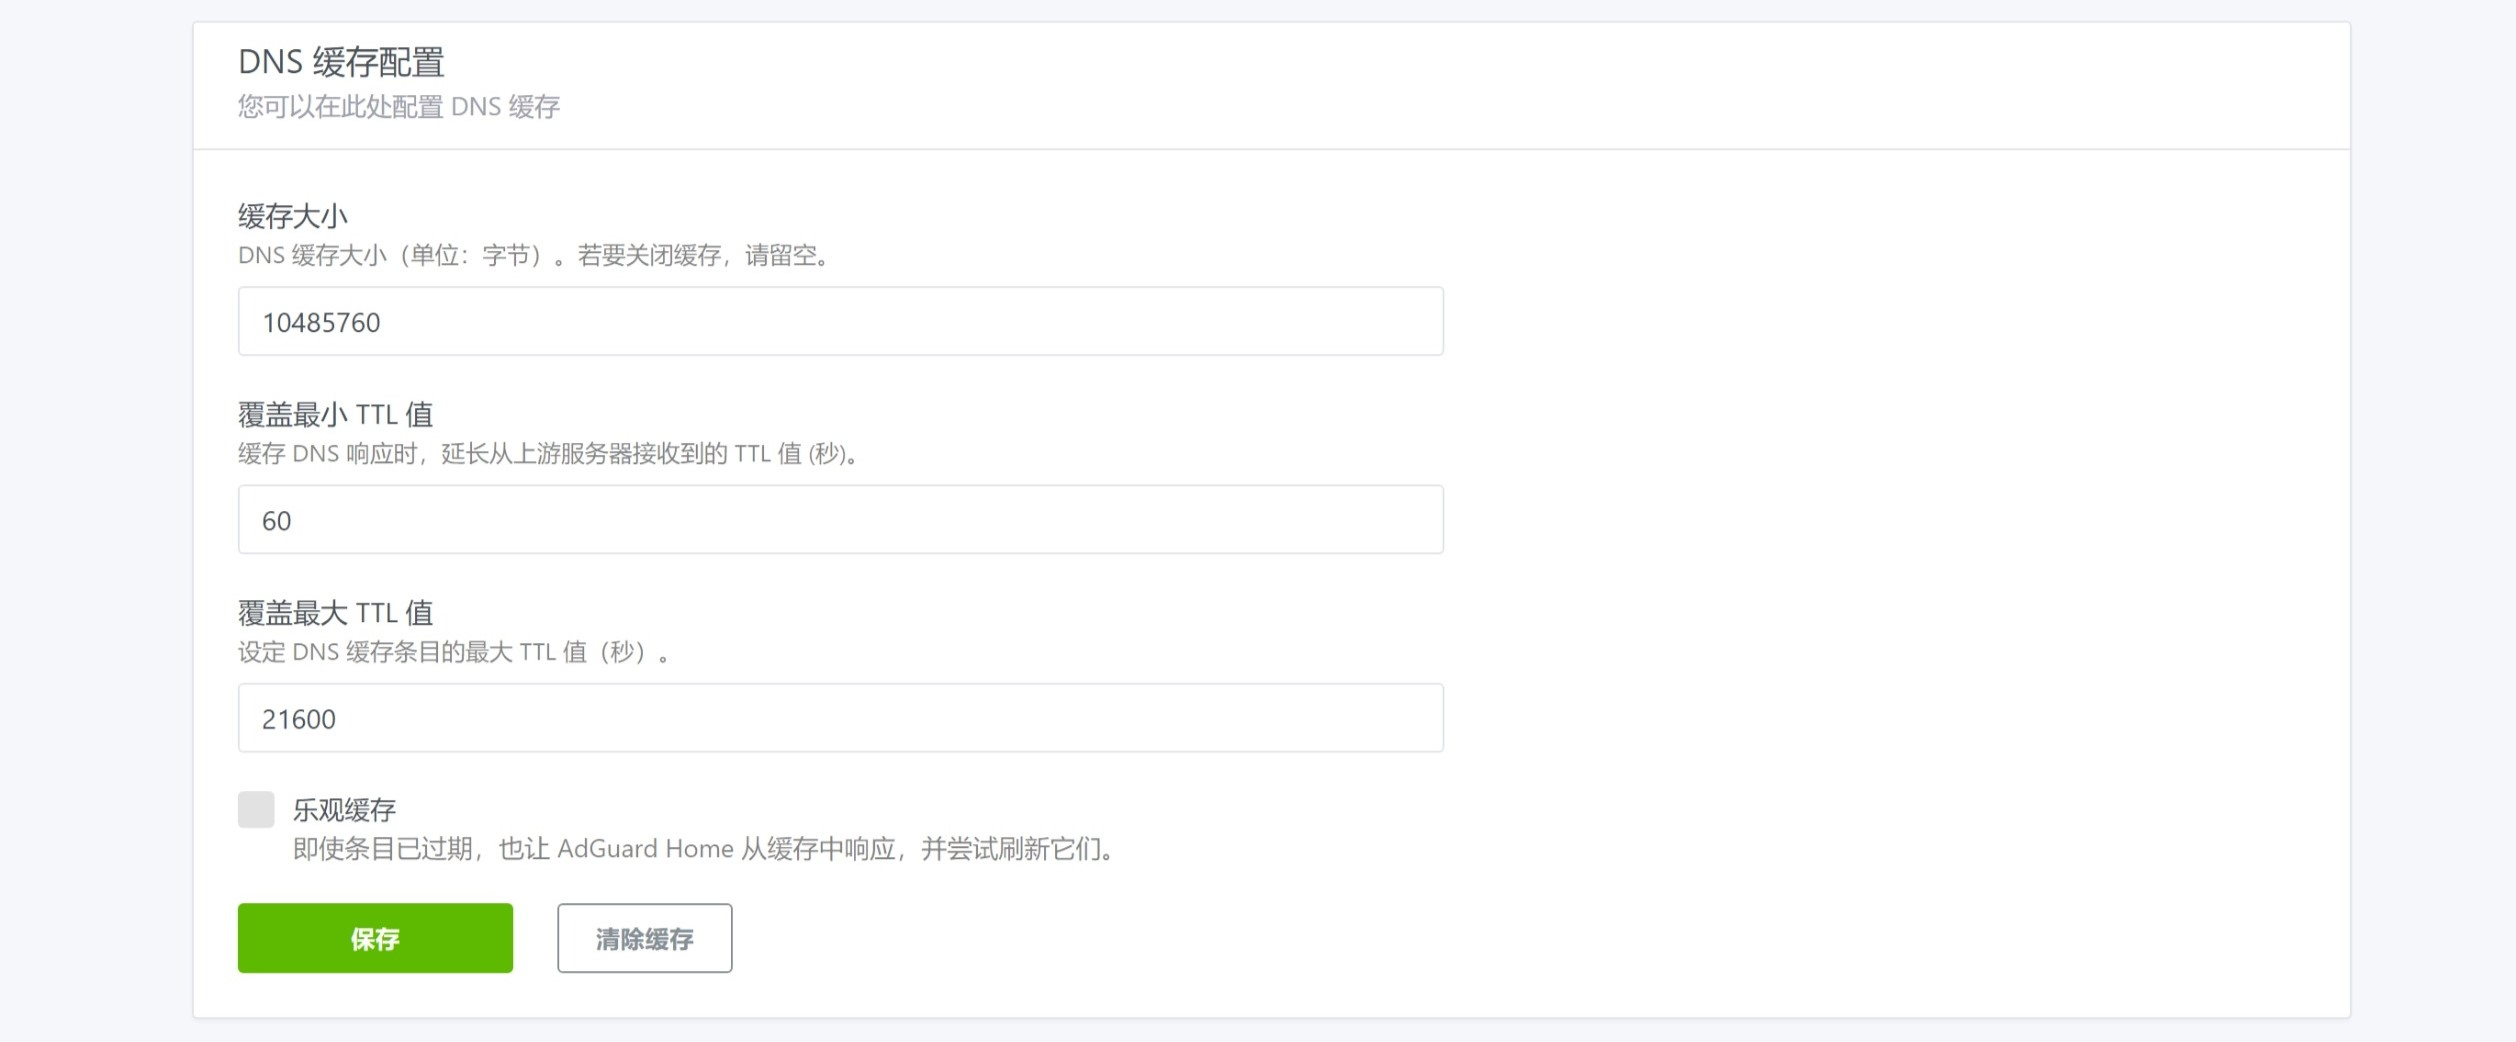
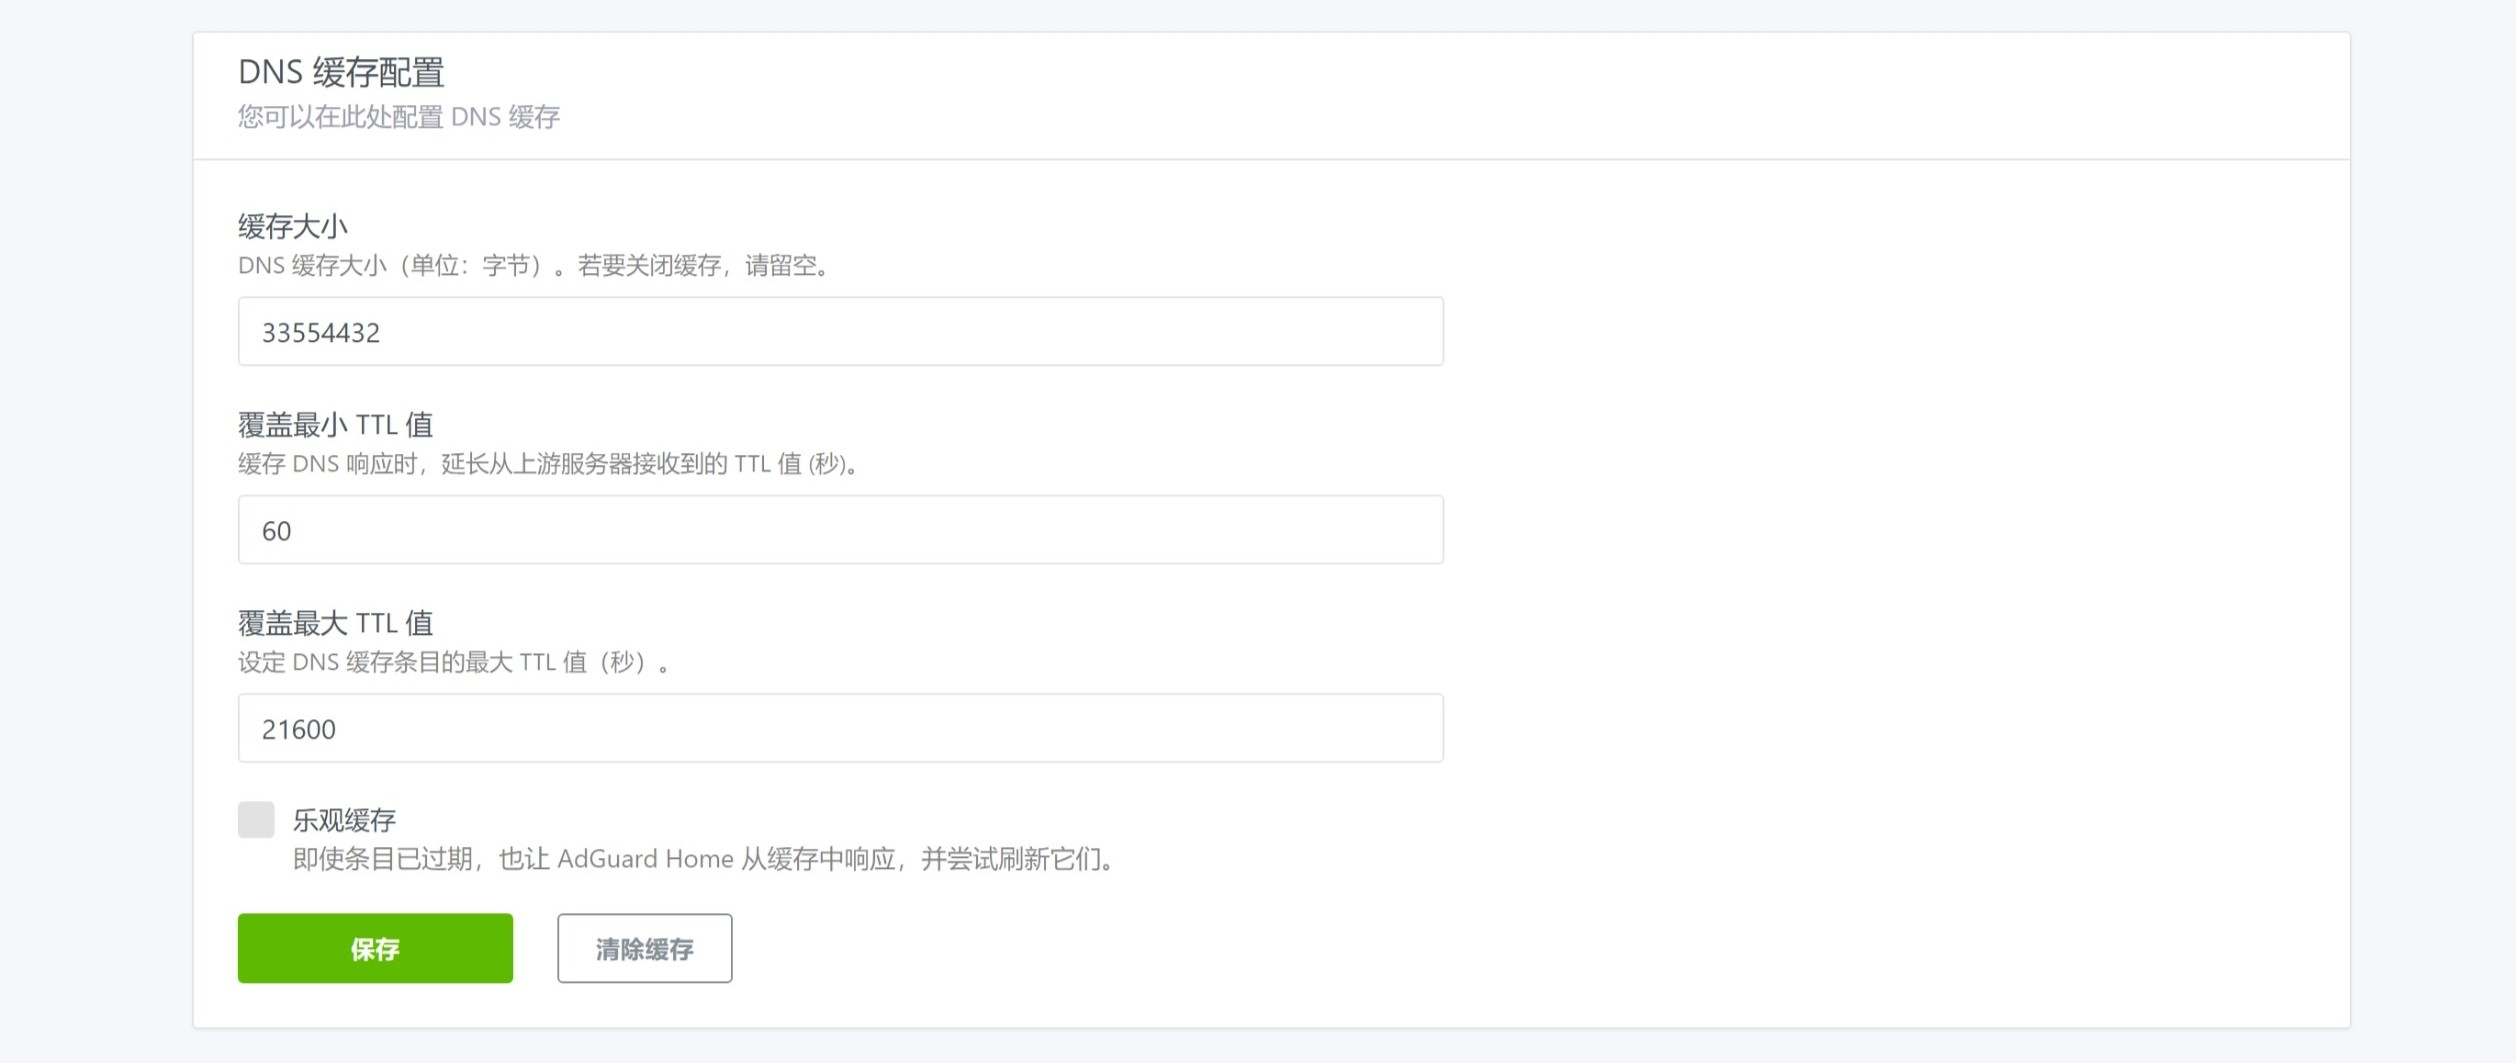
同步更新

diff --git a/01.AGH功能设置.md b/01.AGH功能设置.md
@@ -50,18 +50,12 @@ Adguard Home 的仪表盘将显示近期的一些统计数据。
 quic://dns.alidns.com
 
 ## DoT 服务器
-tls://dns.alidns.com
 tls://dot.pub
-tls://dot.onedns.net
-tls://dot-pure.onedns.net
-tls://dot.360.cn
+tls://dns.alidns.com
 
 ## DoH 服务器
-https://dns.alidns.com/dns-query
 https://doh.pub/dns-query
-https://doh.onedns.net/dns-query
-https://doh-pure.onedns.net/dns-query
-https://doh.360.cn/dns-query
+https://dns.alidns.com/dns-query
 ```
 
 某些场景下，需额外指定 DNS 服务器来解析内网域名，在 `上游 DNS 服务器` 中添加对应 DNS 服务器参数即可。  
@@ -77,34 +71,38 @@ https://doh.360.cn/dns-query
 
 ```bash
 ## 后备 DNS 服务器
+8.8.4.4
+8.8.8.8
 223.5.5.5
-119.29.29.29
-114.114.114.114
+223.6.6.6
 180.184.1.1
+180.184.2.2
 52.80.66.66
 117.50.10.10
-101.226.4.6
-123.125.81.6
-8.8.8.8
+119.29.29.29
+114.114.114.114
+114.114.115.115
 
-2400:3200::1
 2402:4e00::
+2400:3200::1
+2400:3200:baba::1
+2001:4860:4860::8844
+2001:4860:4860::8888
 2400:7fc0:849e:200::4
 2400:7fc0:849e:200::8
-2001:4860:4860::8888
 ```
 
 `Bootstrap DNS 服务器` 用于解析上游 DoQ / DoT / DoH 服务器的 IP 地址，使用国内普通 DNS 服务器即可。  
 
 ```bash
 ## Bootstrap DNS 服务器
-tcp://223.5.5.5
+tcp://223.6.6.6
+tcp://180.184.2.2
 tcp://52.80.66.66
-tcp://8.8.8.8
+tcp://114.114.115.115
 
-tcp://2400:3200::1
+tcp://2400:3200:baba::1
 tcp://2400:7fc0:849e:200::4
-tcp://2001:4860:4860::8888
 ```
 
 `私人反向 DNS 服务器` 用于本地 PTR 查询的 DNS 服务器，一般填写主路由器的 IP 地址即可。  
@@ -129,7 +127,7 @@ tcp://2001:4860:4860::8888
 
 ### 4.3. DNS 缓存配置
 
-默认的 `缓存大小` 参数过小，建议修改为 `10485760` ，计算方式为 `10Mb x 1024 x 1024` 。  
+默认的 `缓存大小` 参数过小，建议修改为 `33554432` ，计算方式为 `32MiB x 1024 x 1024` 。  
 
 ![DNS缓存配置](img/p01/web_dns_cache.jpeg)
 
@@ -176,14 +174,14 @@ Malicious
 https://malware-filter.gitlab.io/malware-filter/urlhaus-filter-agh.txt
 ```
 
-2. `Anti-AD` 用于拦截国内广告地址。  
+2. `Neodevhost` 用于拦截广告地址。  
 
 ```bash
 ## 列表名称
-Anti-AD
+Neodevhost
 
 ## 列表链接地址
-https://anti-ad.net/easylist.txt
+https://neodev.team/lite_adblocker
 ```
 
 ![自定义列表名称和链接地址](img/p01/web_custom_hosts_list_url.jpeg)

diff --git a/README.md b/README.md
@@ -7,7 +7,7 @@ Adguard Home 服务器的安装以及折腾手记。
 
 - 演示机：
     - 虚拟化：Proxmox VE
-    - 宿主系统：Debian12
+    - 宿主系统：Debian 12
     - CPU：host
     - 内存：2GB
     - 网卡：VirtIO
